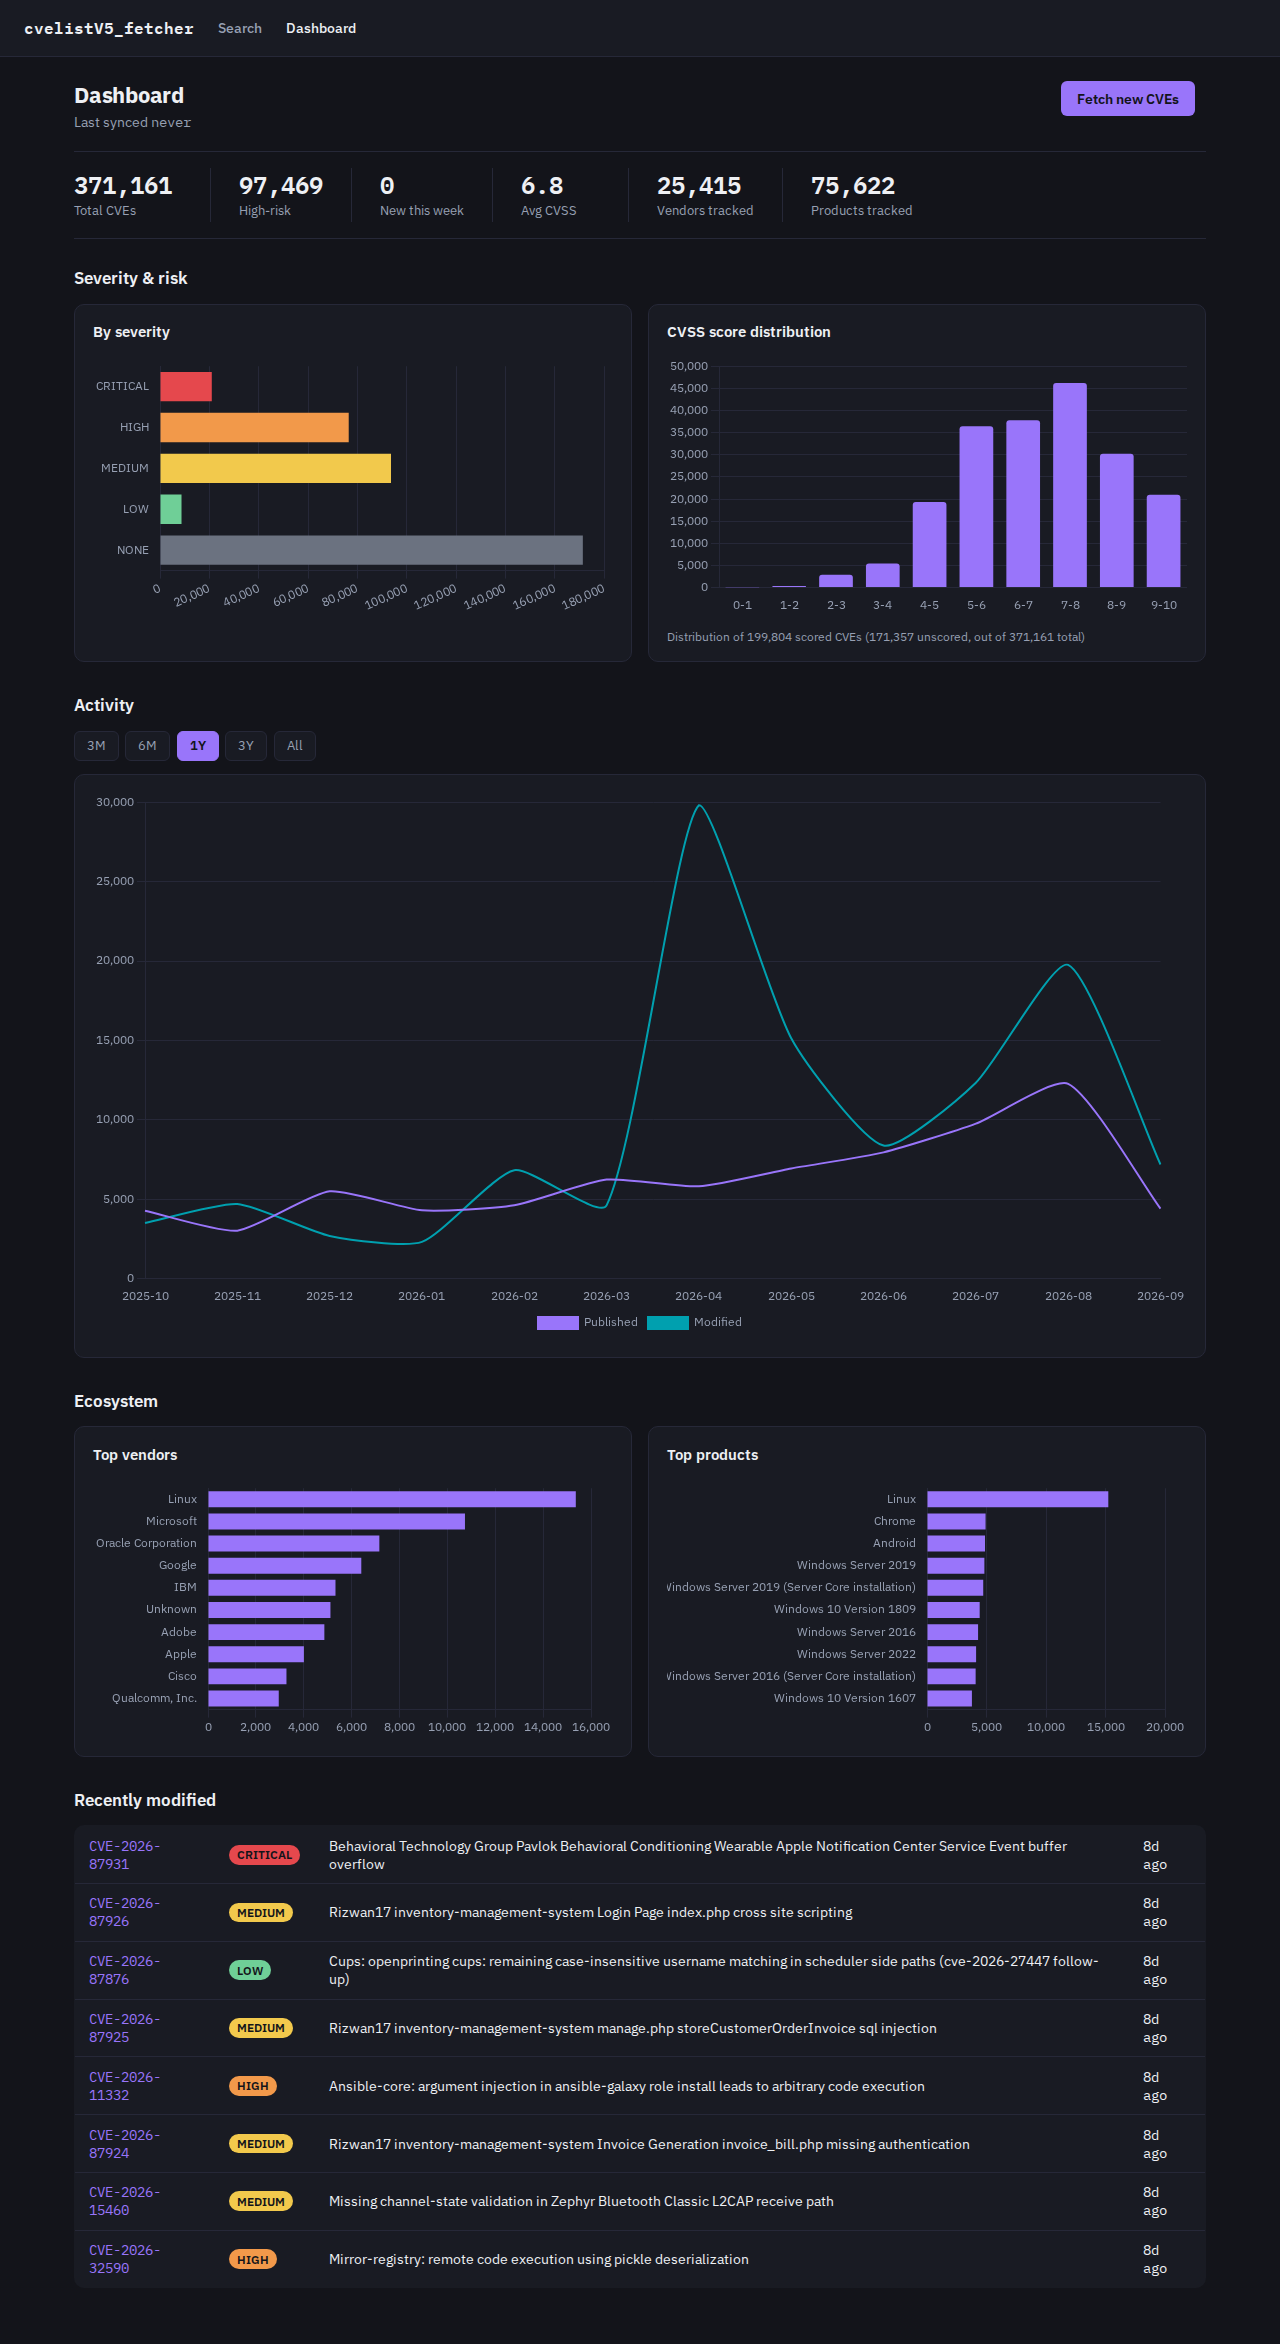
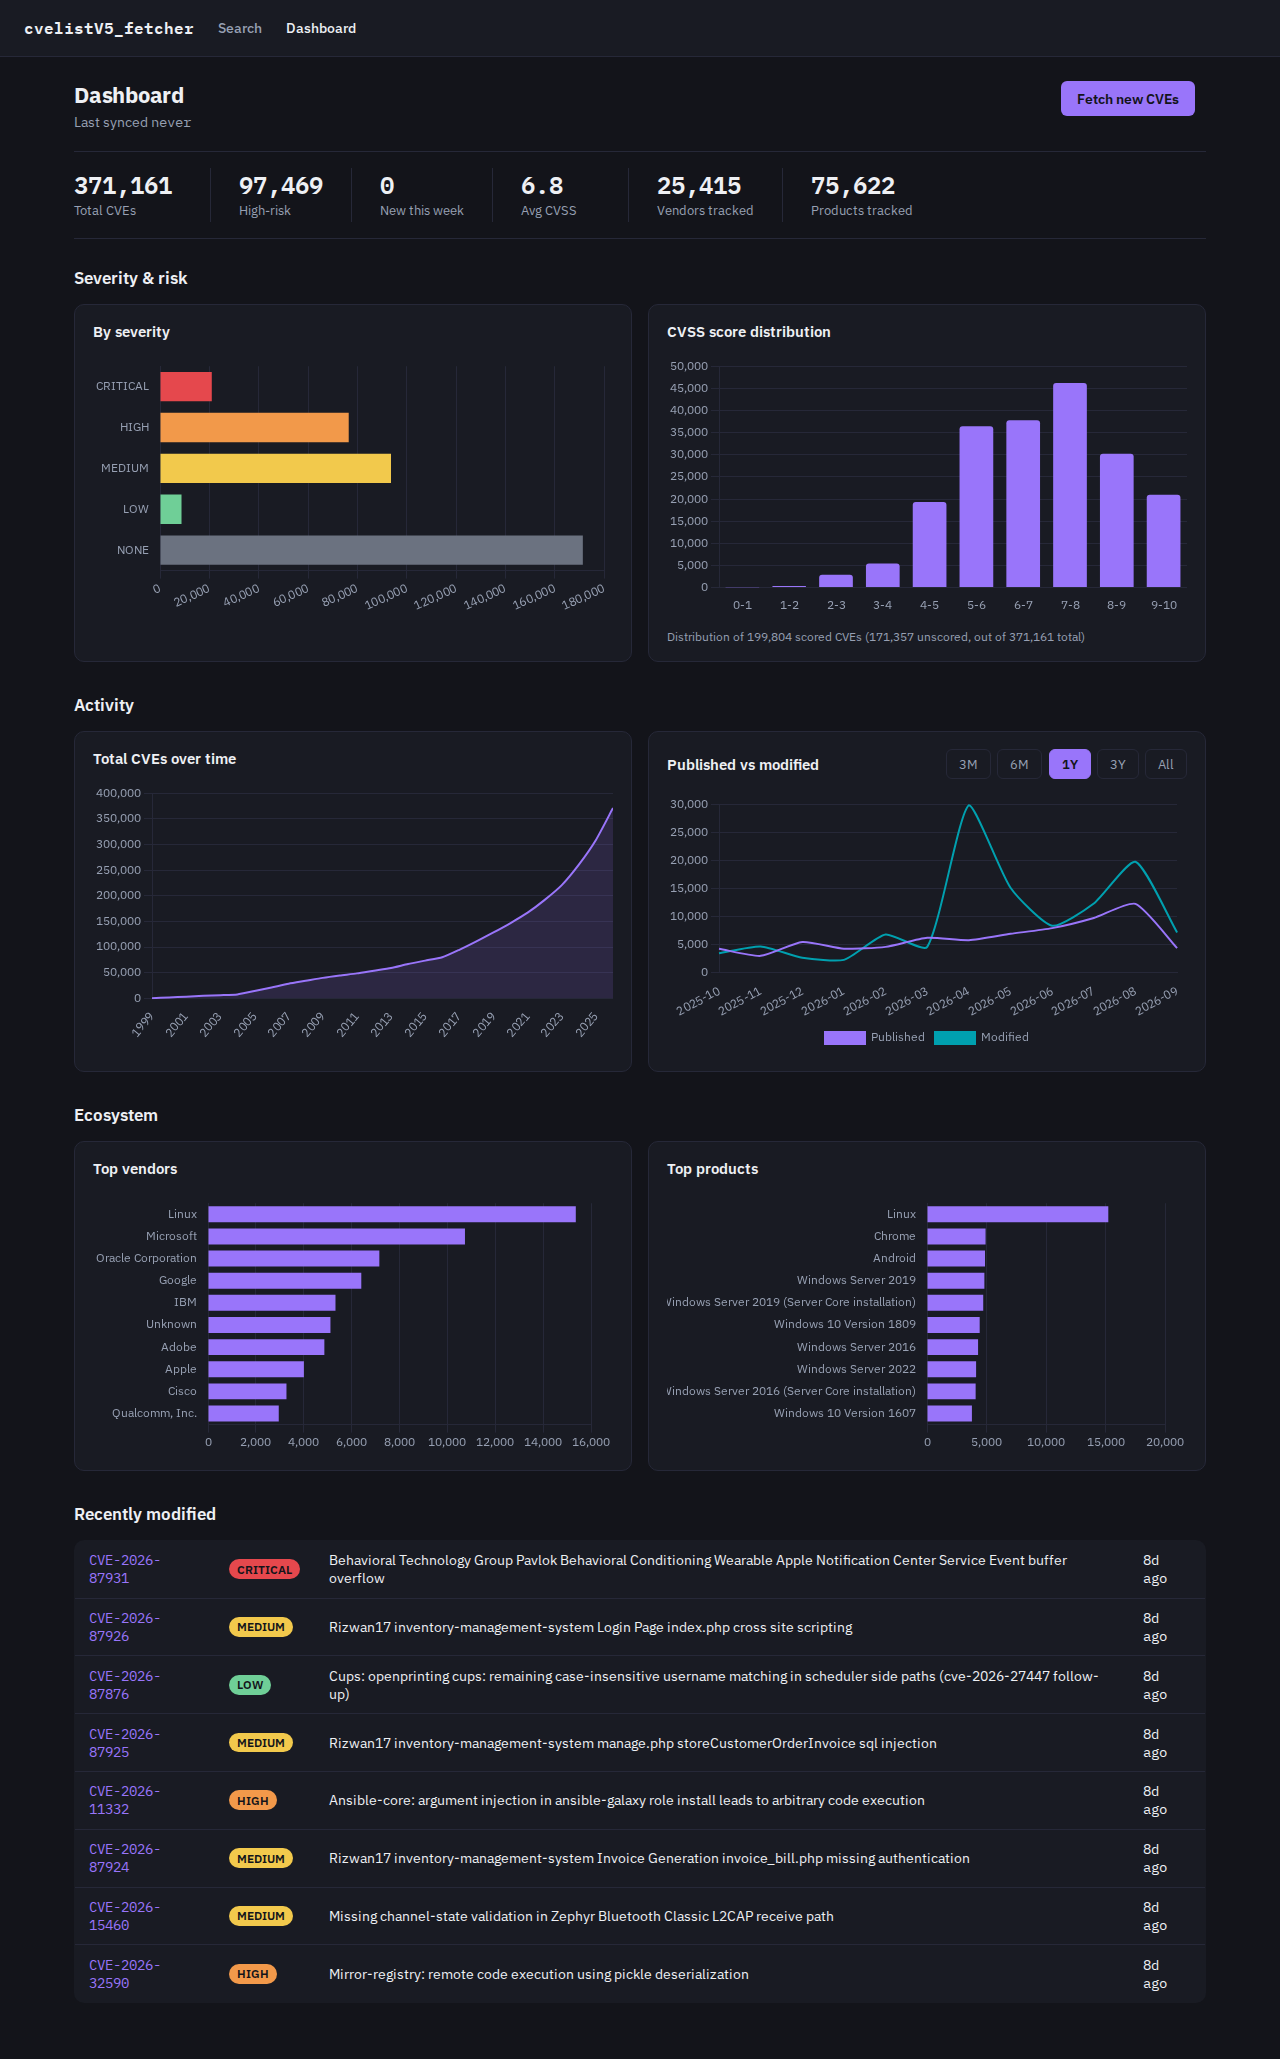
Add cumulative CVE count chart to dashboard
The Activity section only showed monthly published/modified counts,
not the overall size of the catalog over time. Add a "Total CVEs over
time" chart, computed client-side as a running yearly total from the
existing ingestion_trend data (no backend change needed), paired
alongside the existing filtered trend chart.

diff --git a/web/js/dashboard.js b/web/js/dashboard.js
@@ -24,9 +24,33 @@ Chart.defaults.color = MUTED;
 Chart.defaults.borderColor = BORDER;
 Chart.defaults.font.family = "'IBM Plex Sans', sans-serif";
 
-const charts = { severity: null, cvssHist: null, trend: null, vendors: null, products: null };
+const charts = { severity: null, cvssHist: null, cumulative: null, trend: null, vendors: null, products: null };
 let currentStats = null;
 let currentRange = "1y";
+
+function hexToRgba(hex, alpha) {
+  const h = hex.replace("#", "");
+  const r = parseInt(h.slice(0, 2), 16);
+  const g = parseInt(h.slice(2, 4), 16);
+  const b = parseInt(h.slice(4, 6), 16);
+  return `rgba(${r}, ${g}, ${b}, ${alpha})`;
+}
+
+// Buckets the monthly published-date trend into yearly totals, then turns
+// those into a running total so the chart reads as catalog growth over time.
+function cumulativeByYear(monthlyTrend) {
+  const perYear = new Map();
+  for (const { month, count } of monthlyTrend) {
+    const year = month.slice(0, 4);
+    perYear.set(year, (perYear.get(year) || 0) + count);
+  }
+  const years = [...perYear.keys()].sort();
+  let running = 0;
+  return years.map((year) => {
+    running += perYear.get(year);
+    return { year, total: running };
+  });
+}
 
 function renderKpiStrip(stats) {
   const highRisk = (stats.by_severity.CRITICAL || 0) + (stats.by_severity.HIGH || 0);
@@ -86,6 +110,36 @@ function renderCvssHistogram(stats) {
   const unscored = Math.max(0, stats.total - scored);
   document.getElementById("cvss-hist-caption").textContent =
     `Distribution of ${scored.toLocaleString()} scored CVEs (${unscored.toLocaleString()} unscored, out of ${stats.total.toLocaleString()} total)`;
+}
+
+function renderCumulativeChart(stats) {
+  const points = cumulativeByYear(stats.ingestion_trend);
+  charts.cumulative?.destroy();
+  charts.cumulative = new Chart(document.getElementById("cumulative-chart"), {
+    type: "line",
+    data: {
+      labels: points.map((p) => p.year),
+      datasets: [
+        {
+          label: "Total CVEs",
+          data: points.map((p) => p.total),
+          borderColor: ACCENT,
+          backgroundColor: hexToRgba(ACCENT, 0.15),
+          fill: true,
+          borderWidth: 2,
+          pointRadius: 0,
+          tension: 0.2,
+        },
+      ],
+    },
+    options: {
+      plugins: { legend: { display: false } },
+      scales: {
+        y: { beginAtZero: true, grid: { color: BORDER } },
+        x: { grid: { display: false } },
+      },
+    },
+  });
 }
 
 function renderTrendChart(range) {
@@ -191,6 +245,7 @@ async function loadDashboard() {
     renderKpiStrip(stats);
     renderSeverityChart(stats);
     renderCvssHistogram(stats);
+    renderCumulativeChart(stats);
     renderTrendChart(currentRange);
     renderBarChart("vendors", "vendors-chart", stats.top_vendors);
     renderBarChart("products", "products-chart", stats.top_products);

diff --git a/web/dashboard.html b/web/dashboard.html
@@ -52,15 +52,24 @@
 
     <section class="dash-section">
       <h2>Activity</h2>
-      <div class="range-filter" id="trend-range" role="group" aria-label="Time range">
-        <button data-range="3m">3M</button>
-        <button data-range="6m">6M</button>
-        <button data-range="1y" class="active">1Y</button>
-        <button data-range="3y">3Y</button>
-        <button data-range="all">All</button>
-      </div>
-      <div class="chart-card">
-        <canvas id="trend-chart"></canvas>
+      <div class="chart-row">
+        <div class="chart-card">
+          <h3>Total CVEs over time</h3>
+          <canvas id="cumulative-chart"></canvas>
+        </div>
+        <div class="chart-card">
+          <div class="chart-card-header">
+            <h3>Published vs modified</h3>
+            <div class="range-filter" id="trend-range" role="group" aria-label="Time range">
+              <button data-range="3m">3M</button>
+              <button data-range="6m">6M</button>
+              <button data-range="1y" class="active">1Y</button>
+              <button data-range="3y">3Y</button>
+              <button data-range="all">All</button>
+            </div>
+          </div>
+          <canvas id="trend-chart"></canvas>
+        </div>
       </div>
     </section>
 

diff --git a/web/css/style.css b/web/css/style.css
@@ -376,10 +376,27 @@ tbody tr:hover {
   color: var(--muted);
 }
 
+.chart-card-header {
+  display: flex;
+  align-items: center;
+  justify-content: space-between;
+  flex-wrap: wrap;
+  gap: 0.6rem;
+  margin-bottom: 0.9rem;
+}
+
+.chart-card-header h3 {
+  margin: 0;
+}
+
 .range-filter {
   display: flex;
   gap: 0.4rem;
   margin-bottom: 0.8rem;
+}
+
+.chart-card-header .range-filter {
+  margin-bottom: 0;
 }
 
 .range-filter button {
